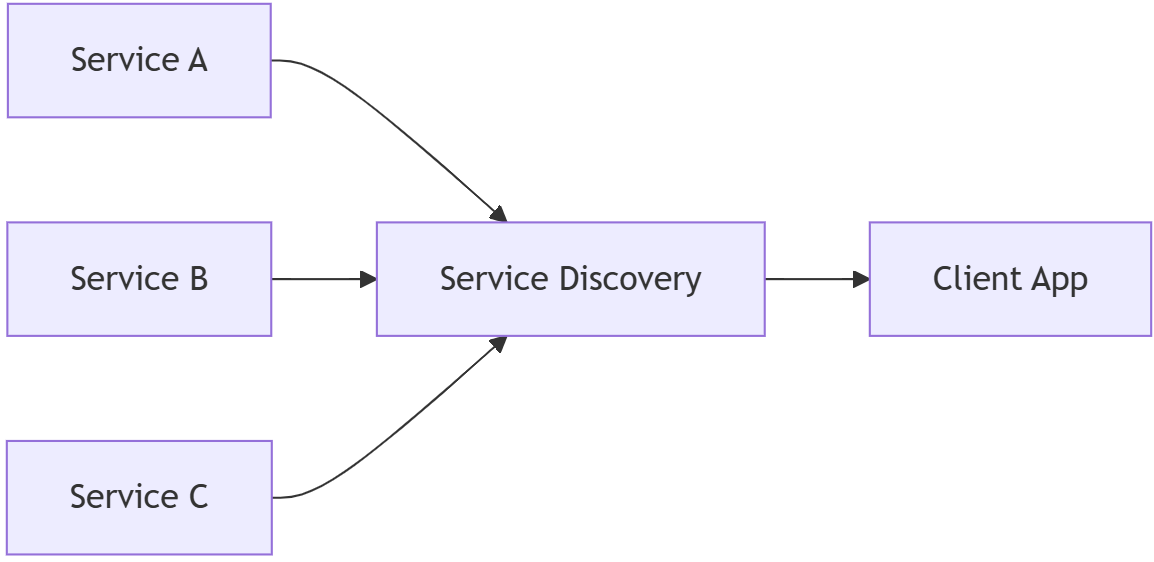
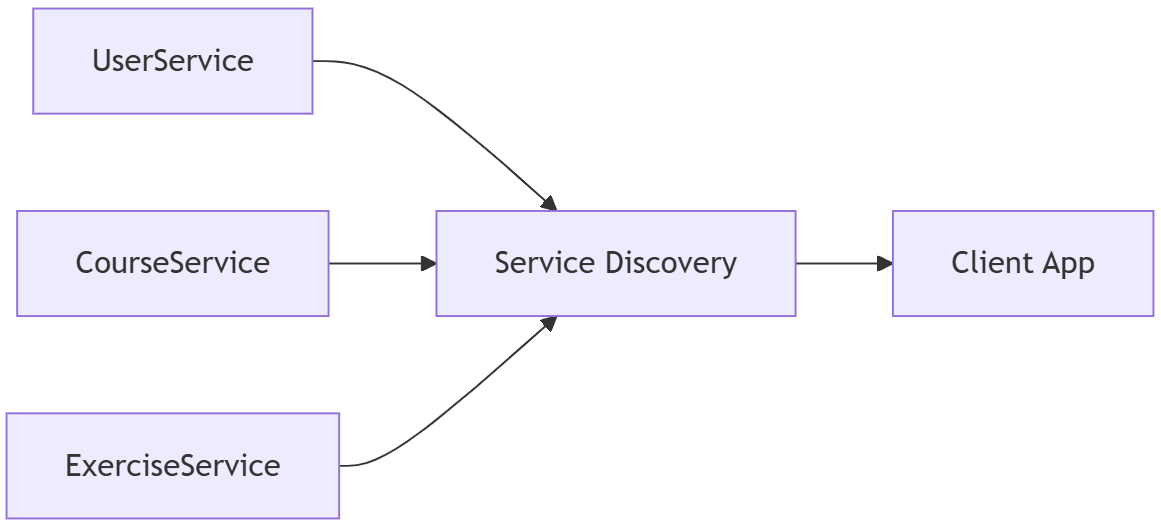
M

diff --git a/microservices/DesignPatterns/1_Service_Discovery.md b/microservices/DesignPatterns/1_Service_Discovery.md
@@ -28,6 +28,11 @@ With service discovery:
     <img src="./assets/img1.png" alt="img1" width="300"/>
 </p>
 
+- Each service registers with the Service Discovery.
+- The client app doesn’t need to know IPs. It just asks for UserService, ExerciseService or CourseService.
+- Requests are load-balanced among multiple instances.
+- If an instance fails, it is automatically ignored.
+
 ---
 
 - [Home](./../../README.md)
